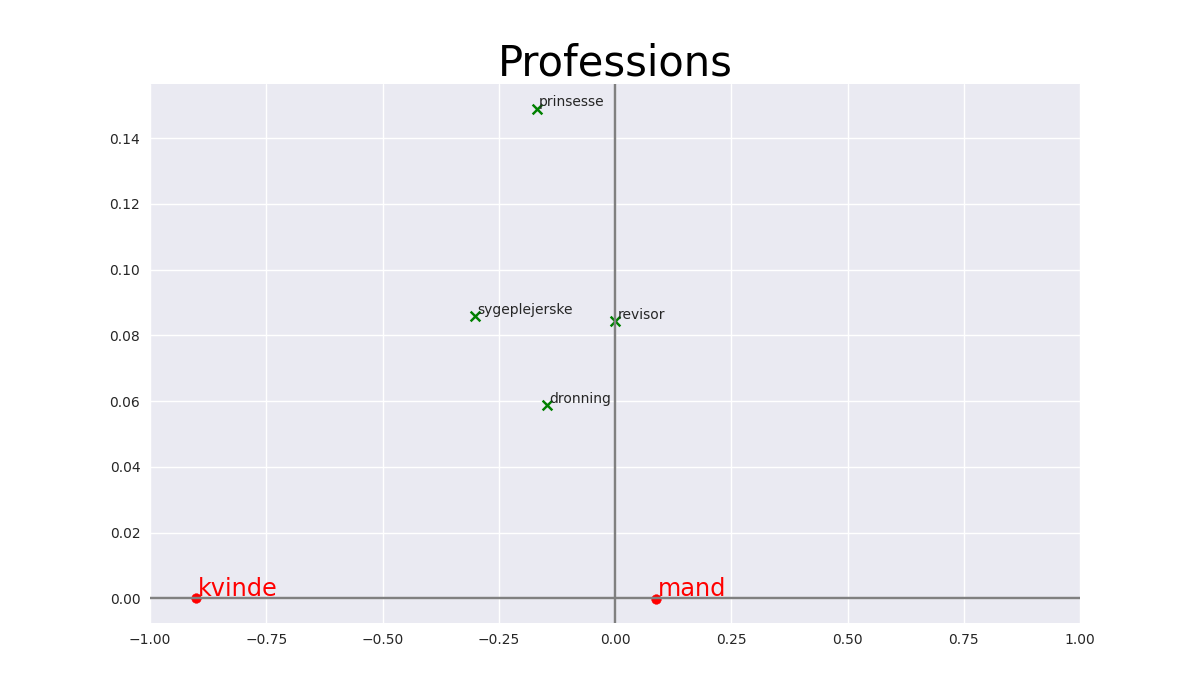
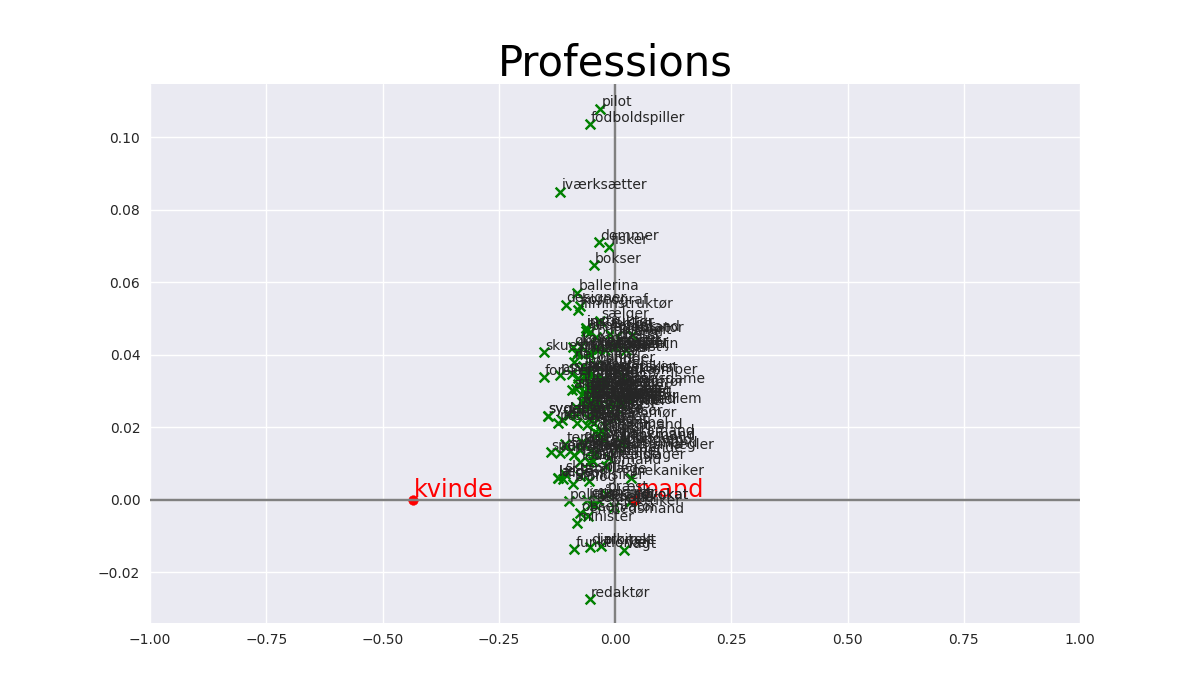
pca fix

diff --git a/debias/debias.py b/debias/debias.py
@@ -19,37 +19,24 @@ Tolga Bolukbasi, Kai-Wei Chang, James Zou, Venkatesh Saligrama, and Adam Kalai
 
 
 def debias(E, gender_specific_words, definitional, equalize):
-    '''
-    # do PCA on definitional word pairs
-    num_components=10
-    pca = we.doPCA(definitional, E, num_components)
-    plt.bar(range(num_components), pca.explained_variance_ratio_)
-    plt.savefig(os.path.join("..", "output", "pca_plot.png"))
-
-    # use top component as gender direction
-    gender_direction = pca.components_[0]
-    '''
-    gender_direction = plotPCA(E, definitional, 0.95)
+    # do PCA analysis
+    pca = we.doPCA(definitional, E, num_components=10)
     
-    # save gender direction (to print most extreme job professions)
-    np.savetxt(os.path.join("..", "output", "gender_direction.csv"), gender_direction, delimiter=',')
+    # plot PCA
+    we.plotPCA(pca, n_components=0.95)
 
-    # load full genderspecific
+    # get gender direction as csv file
+    gender_direction = pca.components_[0]
+
     specific_set = set(gender_specific_words)
-
-    # neutralize: go through entire wordembedding - remove  gender direction from words not in full gender specific
     for i, w in enumerate(E.words):
         if w not in specific_set:
             E.vecs[i] = we.drop(E.vecs[i], gender_direction)
-    
     E.normalize()
-
-    # equalize: take all equalize pairs (both in upper/lowercanse) 
     candidates = {x for e1, e2 in equalize for x in [(e1.lower(), e2.lower()),
                                                      (e1.title(), e2.title()),
                                                      (e1.upper(), e2.upper())]}
     print(candidates)
-    
     for (a, b) in candidates:
         if (a in E.index and b in E.index):
             y = we.drop((E.v(a) + E.v(b)) / 2, gender_direction)
@@ -58,10 +45,7 @@ def debias(E, gender_specific_words, definitional, equalize):
                 z = -z
             E.vecs[E.index[a]] = z * gender_direction + y
             E.vecs[E.index[b]] = -z * gender_direction + y
-    
     E.normalize()
-
-
 
 
 if __name__ == "__main__":
@@ -96,10 +80,13 @@ if __name__ == "__main__":
         gender_specific_words = json.load(f)
     print("gender specific", len(gender_specific_words), gender_specific_words[:10])
 
+    
+    # load embeddings
     E = we.WordEmbedding(embedding_filename)
 
     print("Debiasing:", embedding_filename)
     debias(E, gender_specific_words, defs, equalize_pairs)
+
 '''
     print("Saving to file...")
     if embedding_filename[-4:] == debiased_filename[-4:] == ".bin":

diff --git a/debias/debias_other.py b/debias/debias_other.py
@@ -1,0 +1,45 @@
+
+
+def debias(E, gender_specific_words, definitional, equalize):
+    
+    # do PCA on definitional word pairs
+    num_components=10
+    pca = we.doPCA(definitional, E, num_components)
+    plt.bar(range(num_components), pca.explained_variance_ratio_)
+    plt.savefig(os.path.join("..", "output", "pca_plot.png"))
+
+    # use top component as gender direction
+    gender_direction = pca.components_[0]
+    
+    #gender_direction = we.plotPCA(E, definitional, 0.95)
+    
+    # save gender direction (to print most extreme job professions)
+    np.savetxt(os.path.join("..", "output", "gender_direction.csv"), gender_direction, delimiter=',')
+
+    # load full genderspecific
+    specific_set = set(gender_specific_words)
+
+    # neutralize: go through entire wordembedding - remove  gender direction from words not in full gender specific
+    for i, w in enumerate(E.words):
+        if w not in specific_set:
+            E.vecs[i] = we.drop(E.vecs[i], gender_direction)
+    
+    E.normalize()
+
+    # equalize: take all equalize pairs (both in upper/lowercanse) 
+    candidates = {x for e1, e2 in equalize for x in [(e1.lower(), e2.lower()),
+                                                     (e1.title(), e2.title()),
+                                                     (e1.upper(), e2.upper())]}
+    print(candidates)
+    
+    for (a, b) in candidates:
+        if (a in E.index and b in E.index):
+            y = we.drop((E.v(a) + E.v(b)) / 2, gender_direction)
+            z = np.sqrt(1 - np.linalg.norm(y)**2)
+            if (E.v(a) - E.v(b)).dot(gender_direction) < 0:
+                z = -z
+            E.vecs[E.index[a]] = z * gender_direction + y
+            E.vecs[E.index[b]] = -z * gender_direction + y
+    
+    E.normalize()
+

diff --git a/debias/we.py b/debias/we.py
@@ -1,6 +1,6 @@
 from __future__ import print_function, division
 import re
-import sys
+import os, sys
 sys.path.append("..")
 import numpy as np
 import scipy.sparse
@@ -59,9 +59,8 @@ class WordEmbedding:
             model =gensim.models.KeyedVectors.load_word2vec_format(fname, binary=True)
             words = sorted([w for w in model.vocab], key=lambda w: model.vocab[w].index)
             vecs = [model[w] for w in words]
-        elif fname.endswith(".wv"):
-            model = load_wv_with_gensim(fname)
-
+        #elif fname.endswith(".wv"):
+            #model = load_wv_with_gensim(fname)
         else:
             vecs = []
             words = []
@@ -239,7 +238,7 @@ def text_plot_words(xs, ys, words, width = 90, height = 40, filename=None):
         print(string)
 
 
-def doPCA(pairs, embedding, num_components):
+def doPCA(pairs, embedding, num_components = 0.95):
     matrix = []
     for a, b in pairs:
         center = (embedding.v(a) + embedding.v(b))/2
@@ -250,19 +249,13 @@ def doPCA(pairs, embedding, num_components):
     pca.fit(matrix)
     return pca
 
-def plotPCA(embedding, defonitional, n_components):
-
-# do PCA on definitional word pairs
-    pca = doPCA(definitional, embedding, n_components)
+def plotPCA(pca, n_components=0.95):
     plt.bar(range(pca.n_components_), pca.explained_variance_ratio_, color = "seagreen")
     plt.title("Explained variance by PCA components")
     plt.xlabel("PCA components")
     plt.ylabel("Explained variance")
     print ("PCA plot saved to output folder")
     plt.savefig(os.path.join("..", "output", "pca_plot.png"))
-    # use top component as gender direction
-    gender_direction = pca.components_[0]
-    return gender_direction
-
+    
 def drop(u, v):
     return u - v * u.dot(v) / v.dot(v)

diff --git a/assess_bias/viz2.py b/assess_bias/viz2.py
@@ -36,7 +36,8 @@ def plot_words(embedding, model_name, wordlist_full):
 
     # To-be basis
     x = (vectors[1]-vectors[0])
-    #flipped
+    
+    # flipped
     y = np.flipud(y_ax)
 
     # normalize
